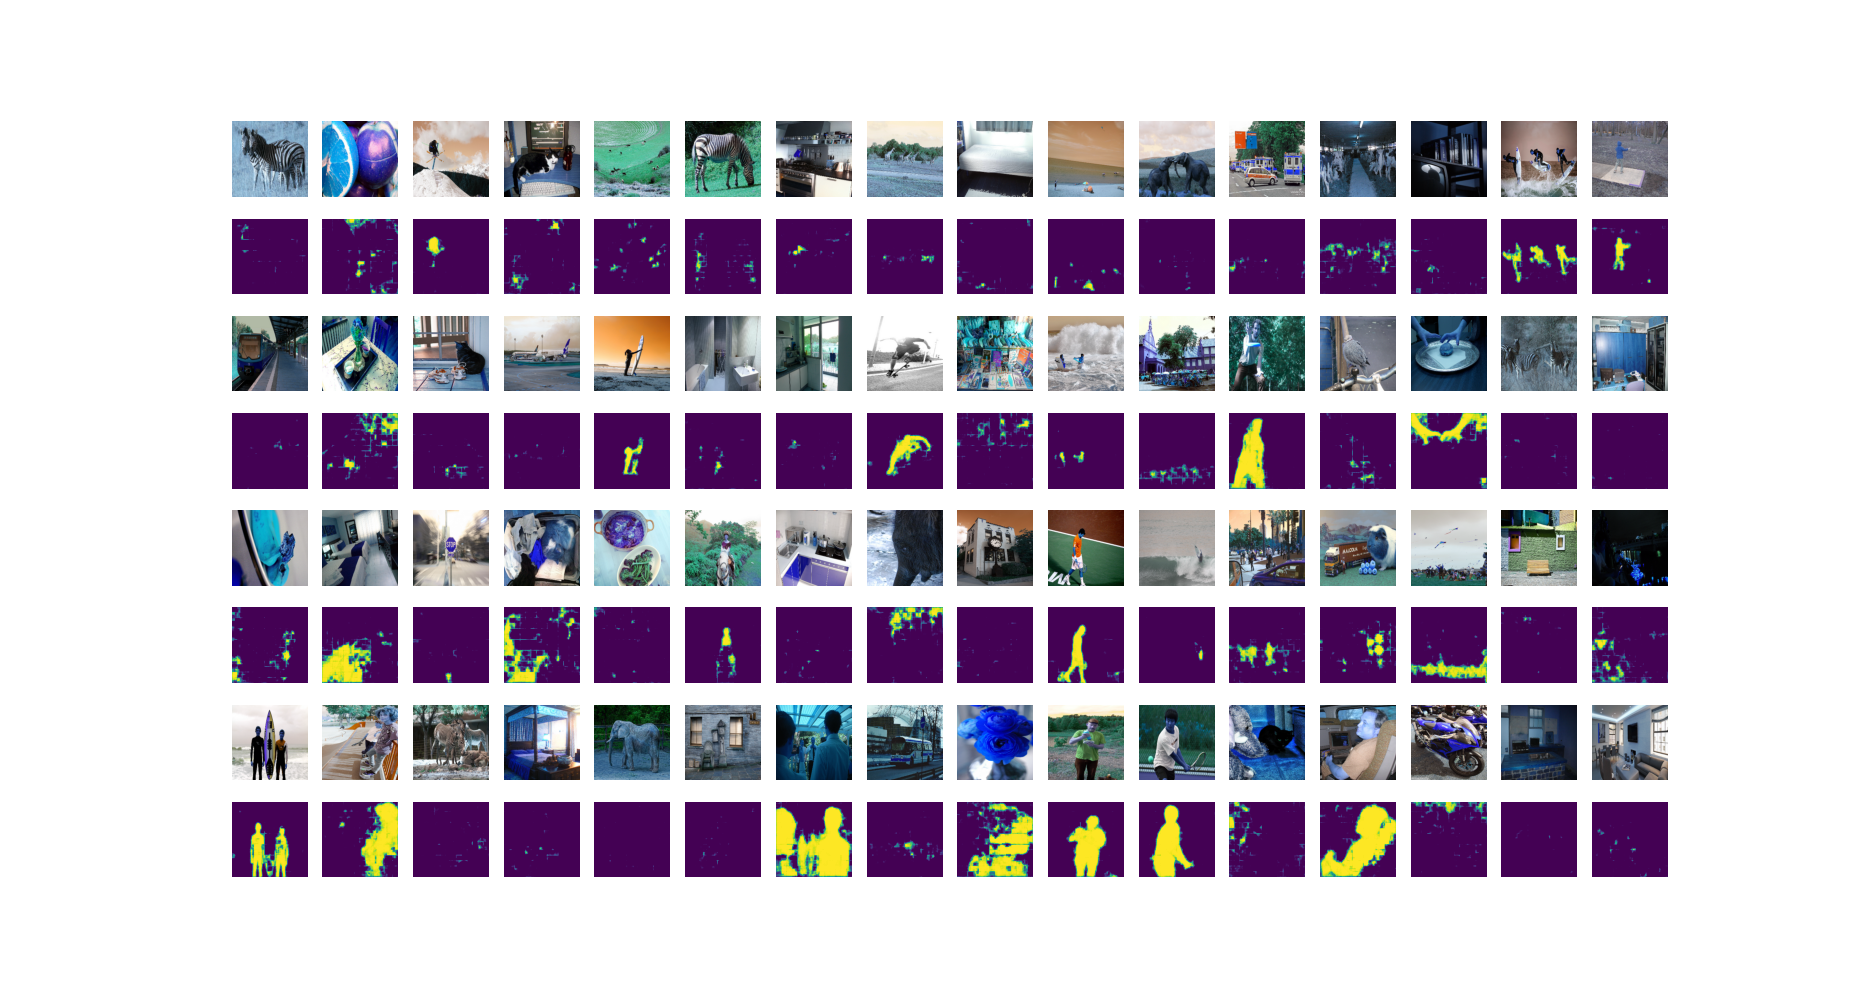
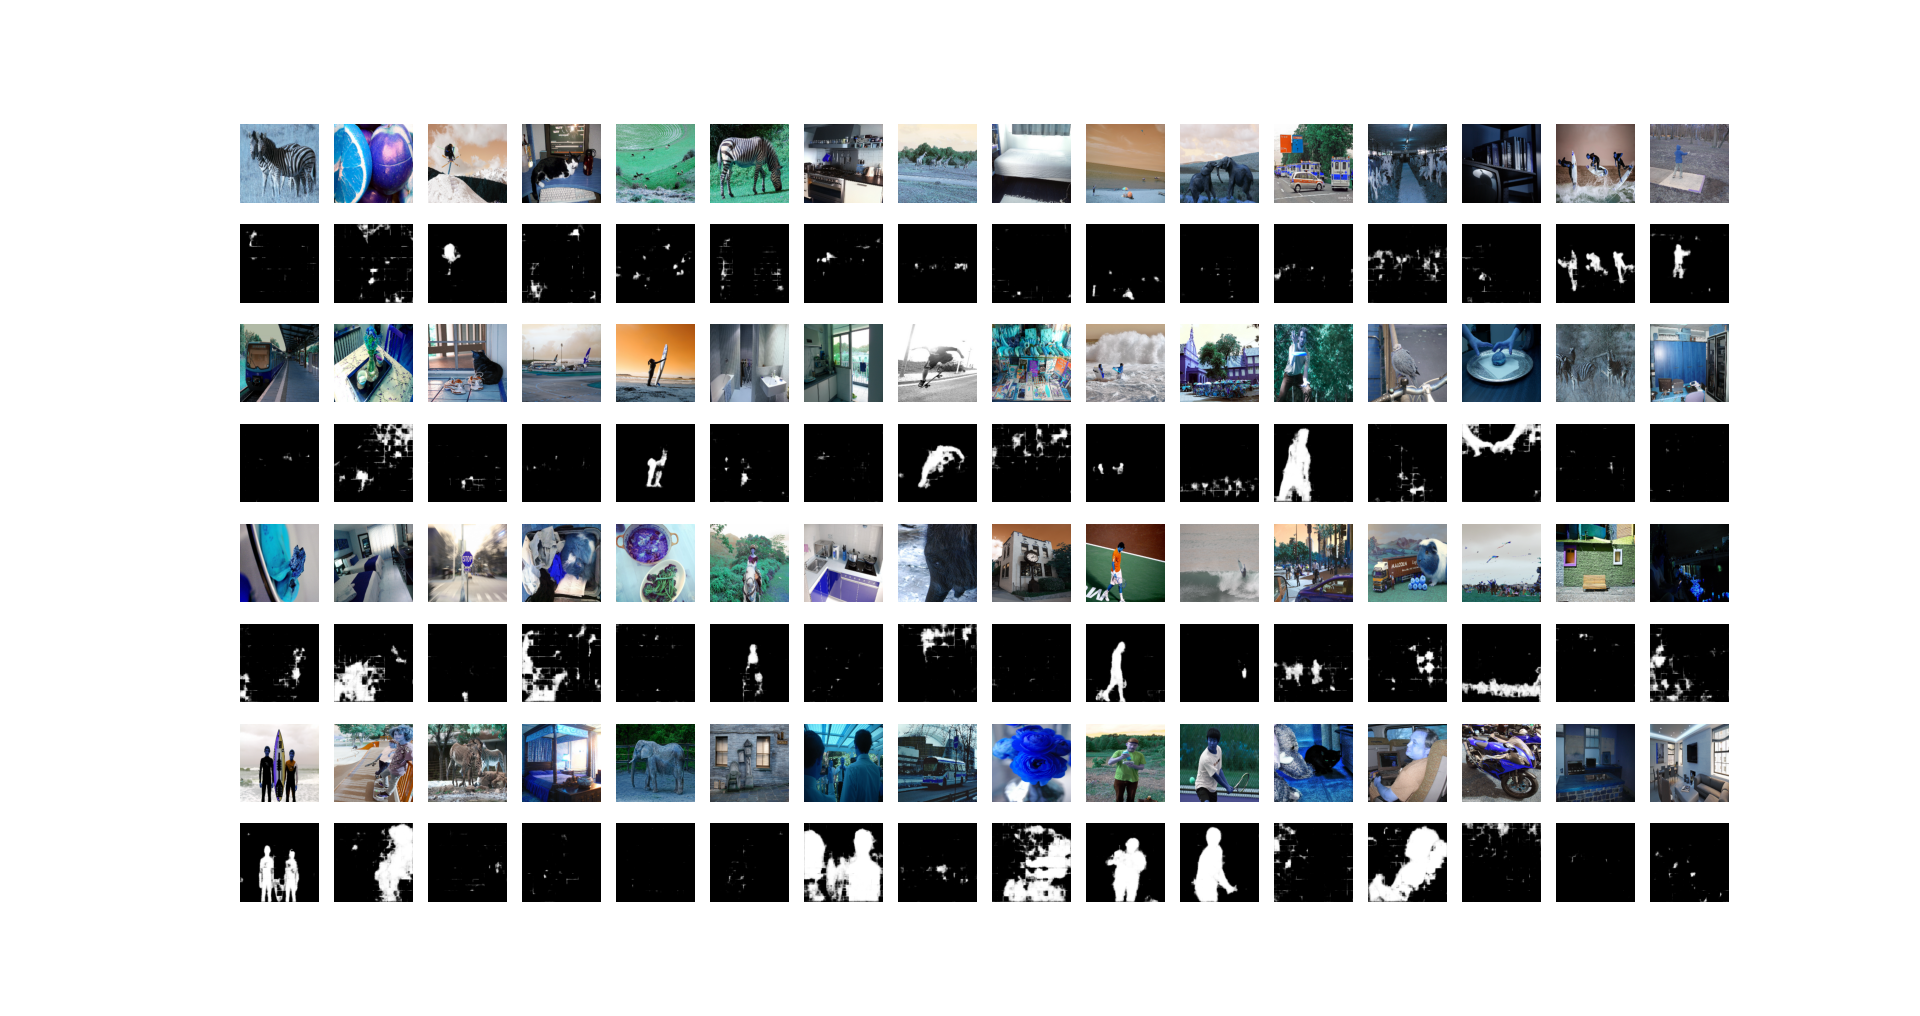
Add files via upload

diff --git a/unet_semantic_seg_inference.py b/unet_semantic_seg_inference.py
@@ -92,7 +92,8 @@ for index in range(64):
     plt.subplot(8,16,r* 32 + c+16+1)
     plt.axis('off')
 
-    plt.imshow(label[0,:,:,1])
+    plt.imshow(label[0,:,:,1], cmap='gray')
+
 
 plt.show()
 
